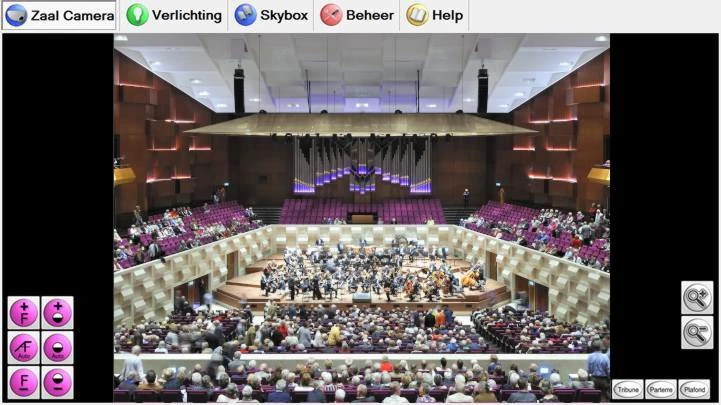
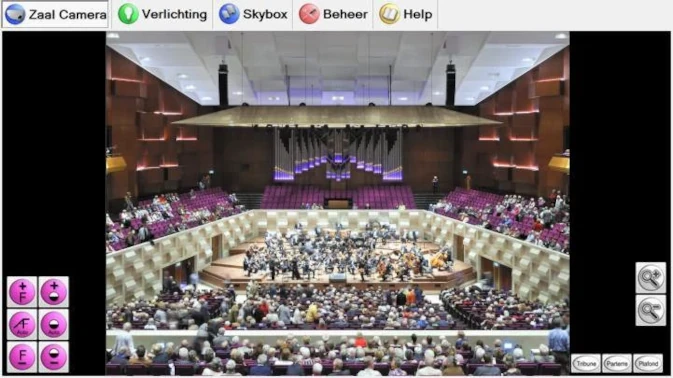
convert to webp and resize

diff --git a/blog/yed.md b/blog/yed.md
@@ -9,7 +9,7 @@ intro: |
     under a proprietary software license, allowing the use of a single copy for free.
 fetchReadme: false
 editLink: true
-image: /images/yed.png
+image: /images/yed.webp
 languages: Go, Shell
 externalUrl: https://www.yworks.com/products/yed
 fetchML: false

diff --git a/blog/pgadmin.md b/blog/pgadmin.md
@@ -12,7 +12,7 @@ intro: |
     simplifies the creation, maintenance, and use of database objects.
 fetchReadme: false
 editLink: true
-image: /images/pgadmin.png
+image: /images/pgadmin.webp
 languages: Python, JavaScript, PLpgSQL, Shell, TypeScript, CSS, Other
 fetchML: false
 ---

diff --git a/blog/minio.md b/blog/minio.md
@@ -9,7 +9,7 @@ intro: |
     enable Write-Ahead Logging (WAL) archiving to a self-hosted MinIO S3 bucket.
 fetchReadme: false
 editLink: true
-image: /images/minio.png
+image: /images/minio.webp
 languages: Kubernetes, PostgreSQL, MinIO
 fetchML: false
 ---

diff --git a/blog/google-sre-book.md b/blog/google-sre-book.md
@@ -9,7 +9,7 @@ intro: |
     This article offers an overview of the book and highlights some key takeaways.
 fetchReadme: false
 editLink: true
-image: /images/google-sre.jpg
+image: /images/google-sre.webp
 languages: Go, Shell
 fetchML: false
 ---

diff --git a/blog/suno.md b/blog/suno.md
@@ -9,7 +9,7 @@ intro: |
     enthusiast, Suno offers a unique platform to explore new sounds and ideas.
 fetchReadme: false
 editLink: true
-image: /images/suno.png
+image: /images/suno.webp
 externalUrl: https://suno.com/
 fetchML: false
 ---

diff --git a/blog/tpa.md b/blog/tpa.md
@@ -16,7 +16,7 @@ intro: |
     environments.
 fetchReadme: false
 editLink: true
-image: /images/edb.png
+image: /images/edb.webp
 languages: Python, Jinja, Shell, Dockerfile
 fetchML: false
 ---
